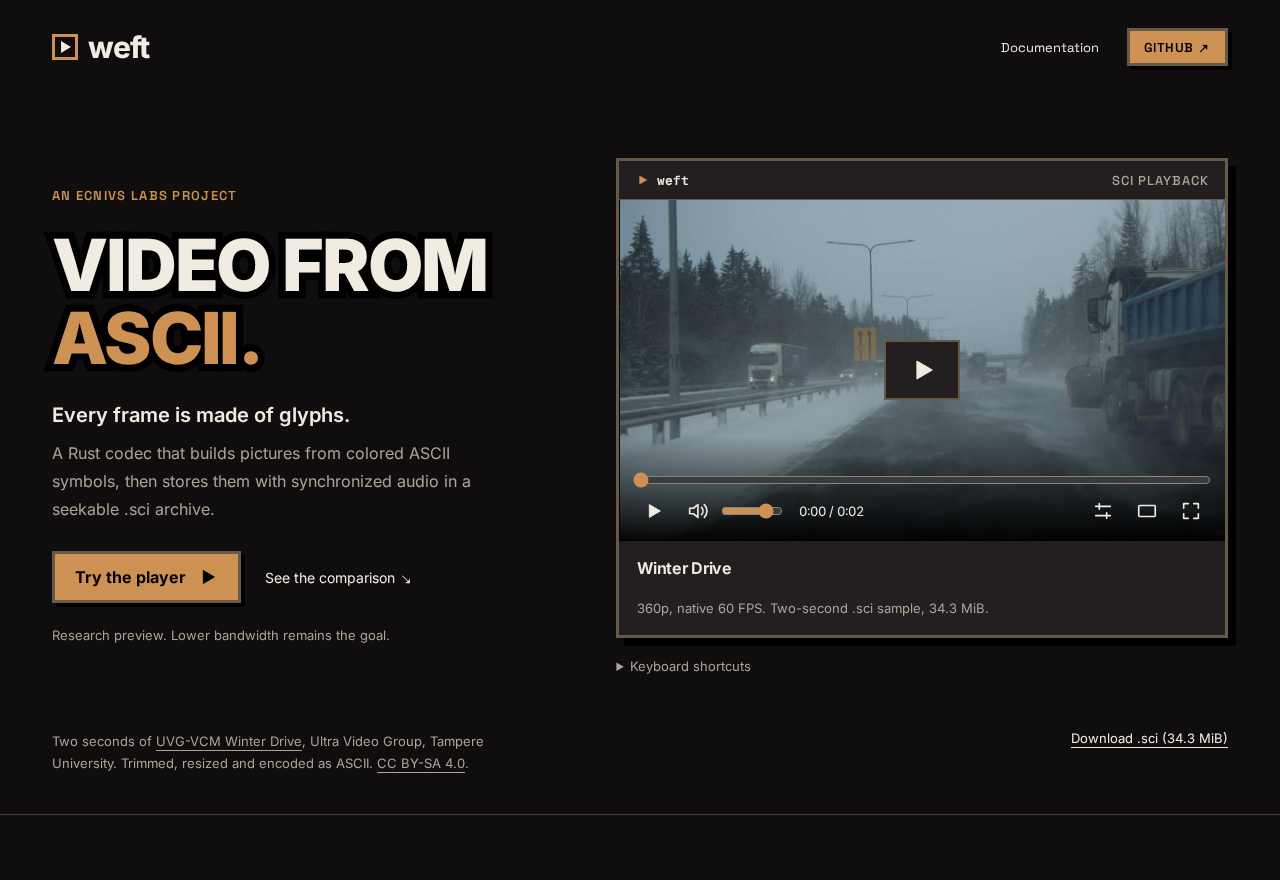
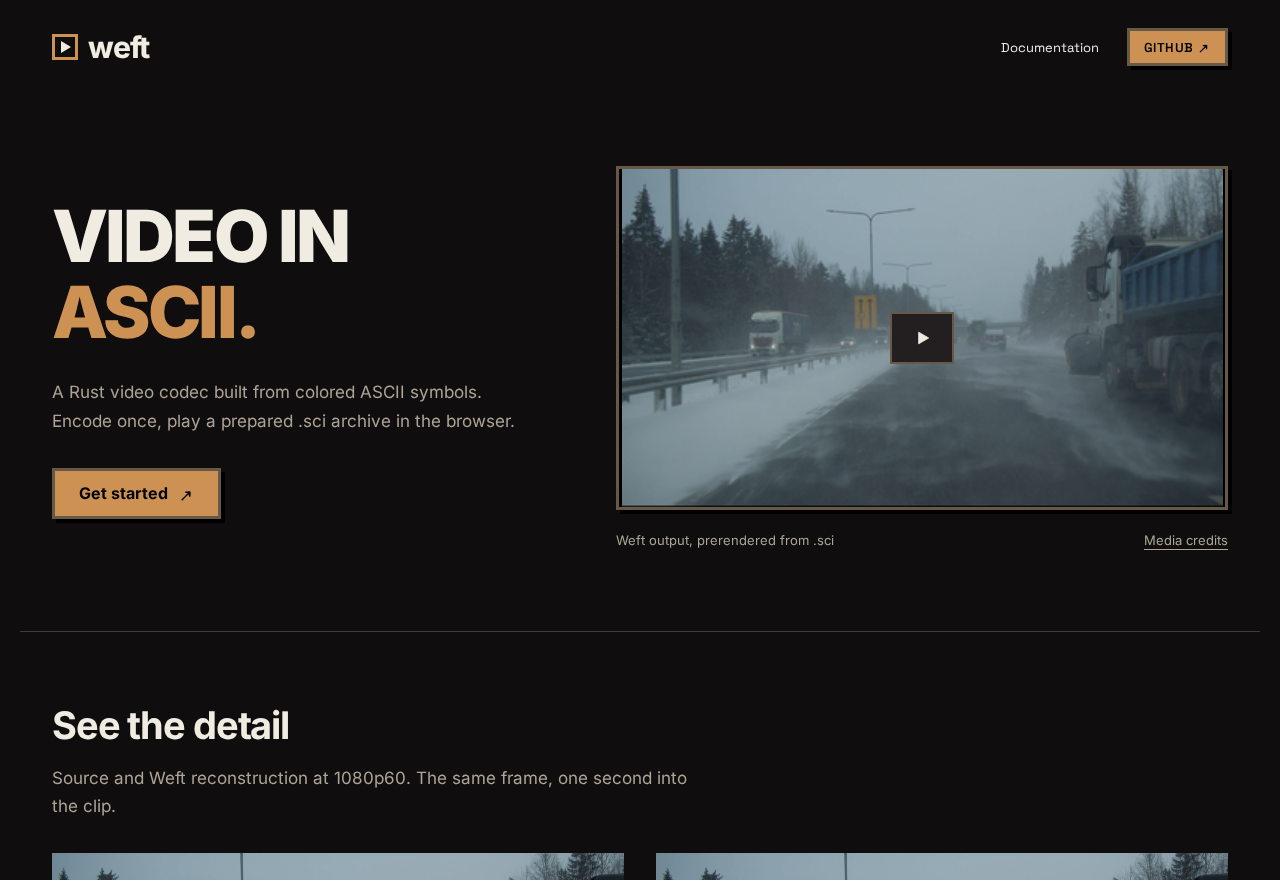
Clean up the Weft product preview and credits

diff --git a/src/components/site/Products.tsx b/src/components/site/Products.tsx
@@ -30,9 +30,6 @@ function ProductCard({ product }: { product: Product }) {
         </div>
         <p className="product-tagline">{product.tagline}</p>
         <p className="product-description">{product.description}</p>
-        {product.previewCredit && (
-          <p className="product-preview-credit">{product.previewCredit}</p>
-        )}
         <div className="product-card-link">
           <span>Explore {product.name}</span>
           <ArrowUpRight size={20} aria-hidden="true" />
@@ -62,6 +59,9 @@ export function Products() {
             </div>
           ))}
         </div>
+        <p className="product-media-credit">
+          <a href="/products/weft-website-LICENSE.txt">Preview media credits</a>
+        </p>
       </div>
     </section>
   )

diff --git a/src/data/products.ts b/src/data/products.ts
@@ -7,7 +7,6 @@ export type Product = {
   description: string
   url: string
   preview: string
-  previewCredit?: string
   resources?: { label: string; href: string }[]
   status: ProductStatus
   license?: {
@@ -20,12 +19,10 @@ export const PRODUCTS: Product[] = [
   {
     id: 'weft',
     preview: '/products/weft-website.png',
-    previewCredit:
-      'Sample: UVG-VCM Winter Drive, Ultra Video Group, Tampere University. CC BY-SA 4.0. Preview resized for this page.',
     resources: [
       {
         label: 'Weft documentation',
-        href: 'https://github.com/ecnivslabs/weft/blob/master/docs/index.md',
+        href: 'https://weft.ecnivs.com/docs/',
       },
       { label: 'Weft source', href: 'https://github.com/ecnivslabs/weft' },
     ],

diff --git a/src/styles/site.css b/src/styles/site.css
@@ -188,9 +188,9 @@
   object-fit: cover;
   object-position: top;
 }
-.product-preview-credit {
-  margin: -12px 0 20px;
-  font-size: 11px;
+.product-media-credit {
+  margin: 20px 0 0;
+  font-size: 13px;
   line-height: 1.5;
   color: hsl(var(--muted-foreground));
 }
